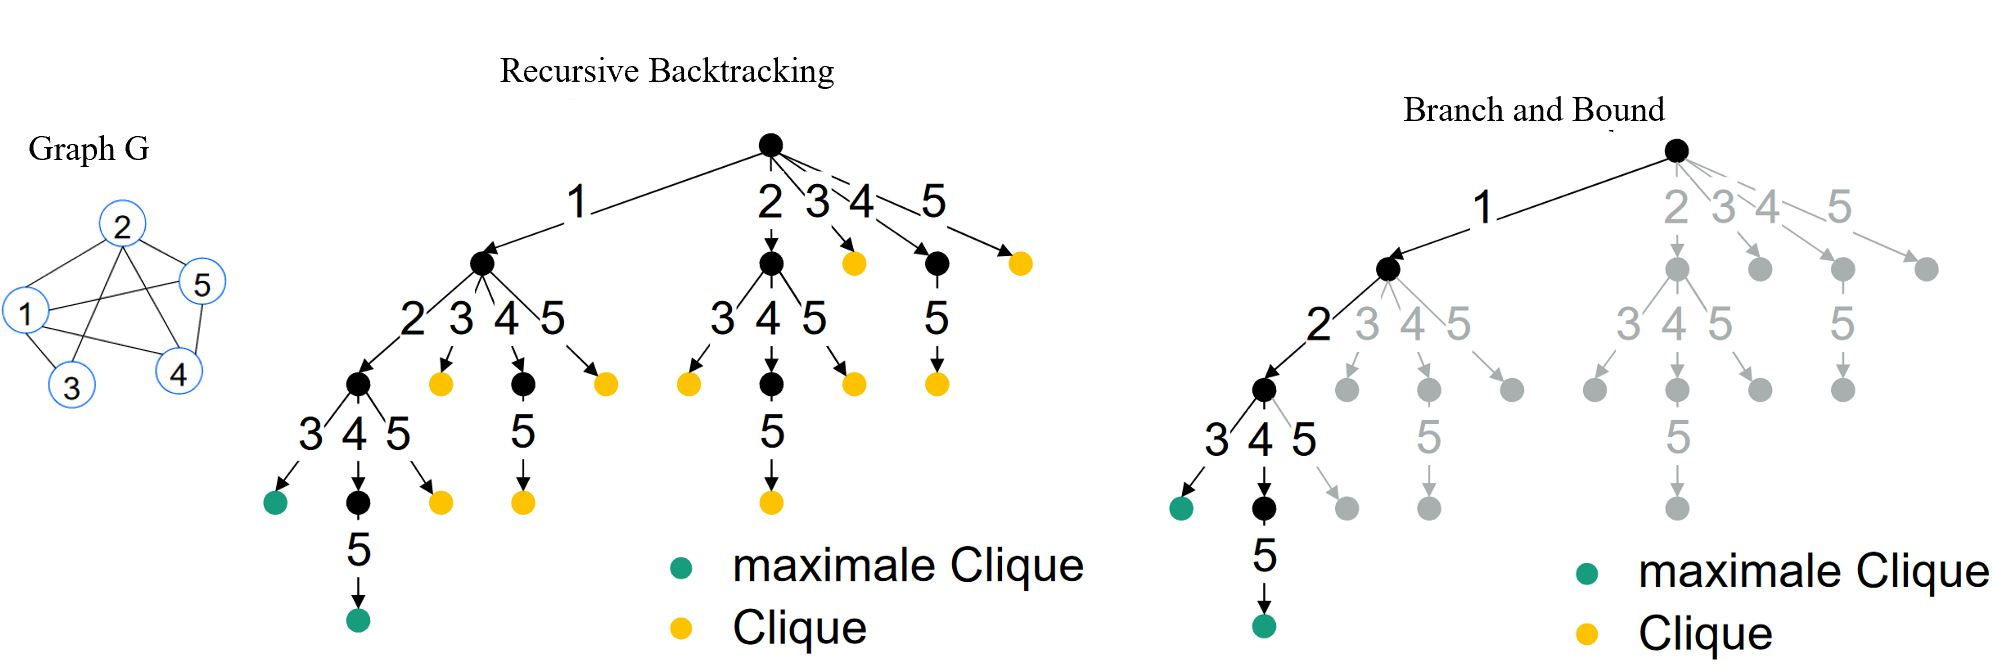
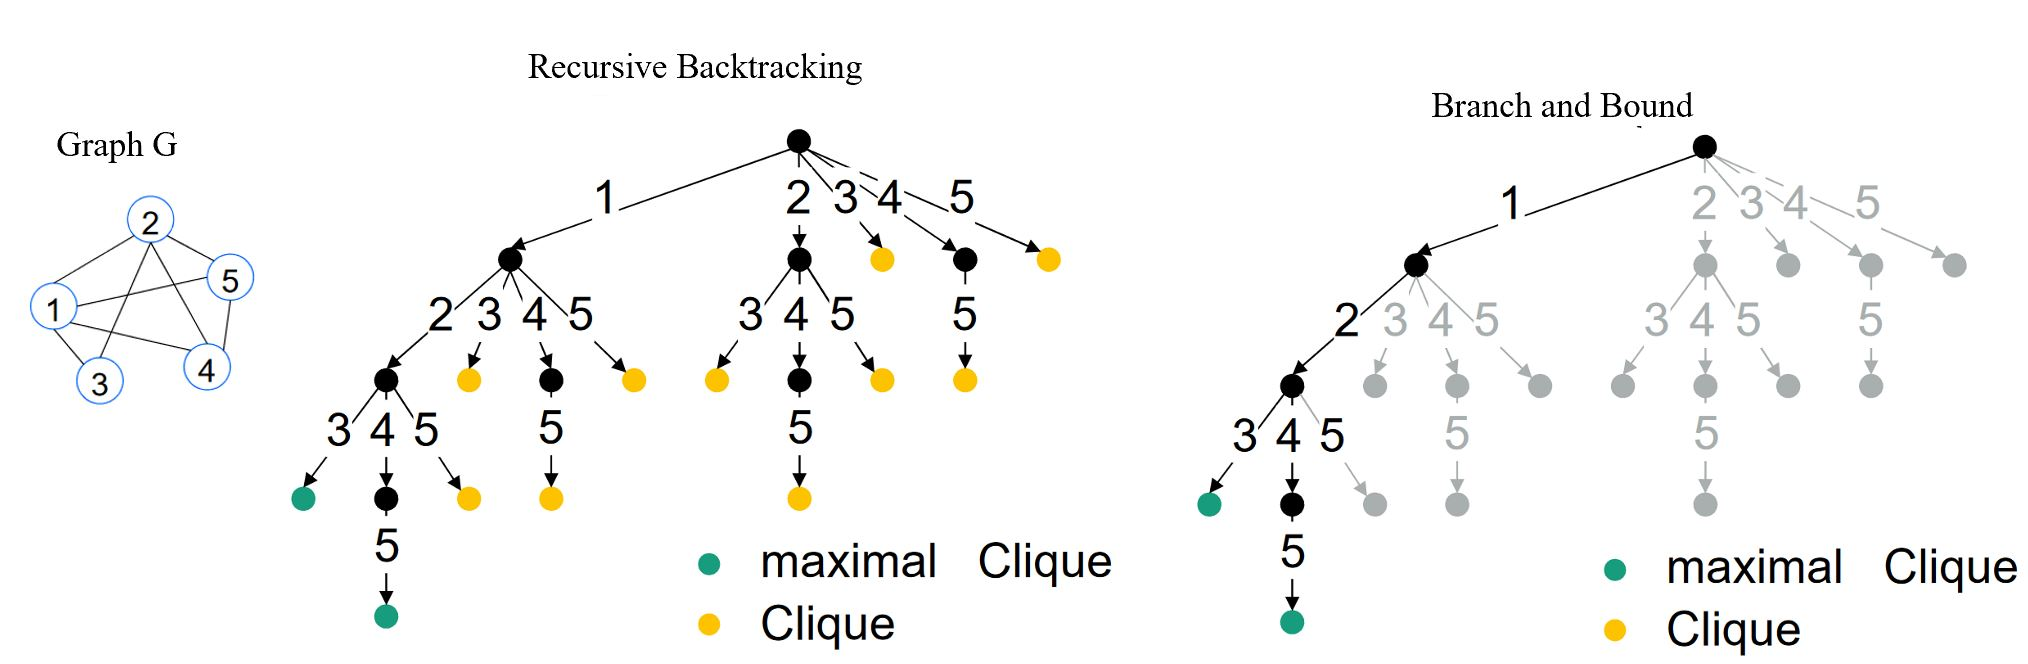
Bron Kerbosch Fix Image and "Quelle"

diff --git a/algorithms.md b/algorithms.md
@@ -51,8 +51,8 @@ Example:
 
 ![Bron Kerbosch Algorithmus](images/BronKerboschExample.JPG)
 
-Quelle: http://kontext.fraunhofer.de/haenelt/kurs/folien/Haenelt_Clique.pdf   
-   
+Source: http://kontext.fraunhofer.de/haenelt/kurs/folien/Haenelt_Clique.pdf   
+  
 ```
 Bron_Kerbosch(list next_possible_expansions, list<node> current_list, list already_tested)
     if current_list.isempty() and already_tested.isempty():
